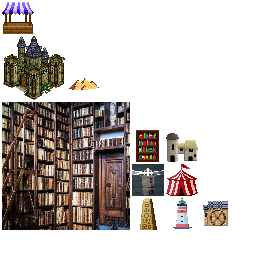
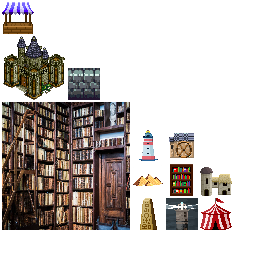
Walls: Implement walls building

Changed region(s): [[0.5, 0.5, 0.9062, 0.9062], [0.25, 0.25, 0.4062, 0.4062]]

diff --git a/core/src/main/java/me/rhin/openciv/game/city/City.java b/core/src/main/java/me/rhin/openciv/game/city/City.java
@@ -31,7 +31,6 @@ import me.rhin.openciv.listener.BuildingConstructedListener;
 import me.rhin.openciv.listener.CityStatUpdateListener;
 import me.rhin.openciv.listener.FinishProductionItemListener;
 import me.rhin.openciv.listener.NextTurnListener;
-import me.rhin.openciv.listener.RemoveProductionItemListener;
 import me.rhin.openciv.listener.RemoveSpecialistFromContainerListener;
 import me.rhin.openciv.listener.SetCitizenTileWorkerListener;
 import me.rhin.openciv.listener.SetProductionItemListener;
@@ -42,7 +41,6 @@ import me.rhin.openciv.shared.packet.type.BuildingConstructedPacket;
 import me.rhin.openciv.shared.packet.type.CityStatUpdatePacket;
 import me.rhin.openciv.shared.packet.type.FinishProductionItemPacket;
 import me.rhin.openciv.shared.packet.type.NextTurnPacket;
-import me.rhin.openciv.shared.packet.type.RemoveProductionItemPacket;
 import me.rhin.openciv.shared.packet.type.RemoveSpecialistFromContainerPacket;
 import me.rhin.openciv.shared.packet.type.SetCitizenTileWorkerPacket;
 import me.rhin.openciv.shared.packet.type.SetCitizenTileWorkerPacket.WorkerType;
@@ -70,6 +68,8 @@ public class City extends Group implements AttackableEntity, TileObserver, Speci
 	private Sprite nameIcon;
 	private Healthbar healthbar;
 	private float health;
+	private float maxHealth;
+	private int combatStrength;
 
 	public City(Tile originTile, Player playerOwner, String name) {
 		setName(name);
@@ -92,6 +92,9 @@ public class City extends Group implements AttackableEntity, TileObserver, Speci
 		// actor...
 		this.healthbar = new Healthbar(nameLabel.getX() + nameLabel.getWidth() / 2 - 50 / 2, nameIcon.getY() + 15, 50,
 				4, false);
+
+		this.maxHealth = 200; // Default
+		this.combatStrength = 5; // Default
 		this.health = getMaxHealth();
 
 		// FIXME: The actor size & position really shouldn't be confined to the label.
@@ -291,7 +294,7 @@ public class City extends Group implements AttackableEntity, TileObserver, Speci
 
 	@Override
 	public int getCombatStrength() {
-		return 5;
+		return combatStrength; // 5
 	}
 
 	@Override
@@ -310,13 +313,25 @@ public class City extends Group implements AttackableEntity, TileObserver, Speci
 	}
 
 	@Override
+	public void setMaxHealth(float maxHealth) {
+		this.maxHealth = maxHealth;
+
+		this.healthbar.setHealth(getMaxHealth(), health);
+	}
+
+	@Override
+	public void setCombatStrength(int combatStrength) {
+		this.combatStrength = combatStrength;
+	}
+
+	@Override
 	public float getHealth() {
 		return health;
 	}
 
 	@Override
 	public float getMaxHealth() {
-		return 200;
+		return maxHealth; // 200
 	}
 
 	@Override

diff --git a/server/src/main/java/me/rhin/openciv/server/game/state/InGameState.java b/server/src/main/java/me/rhin/openciv/server/game/state/InGameState.java
@@ -87,11 +87,11 @@ public class InGameState extends GameState
 	private ScheduledExecutorService executor;
 	private Runnable turnTimeRunnable;
 	private GameWonders gameWonders;
-	
+
 	public InGameState() {
-		
+
 		this.gameWonders = new GameWonders();
-		
+
 		Server.getInstance().getEventManager().addListener(DisconnectListener.class, this);
 		Server.getInstance().getEventManager().addListener(SelectUnitListener.class, this);
 		Server.getInstance().getEventManager().addListener(UnitMoveListener.class, this);
@@ -701,7 +701,8 @@ public class InGameState extends GameState
 	@Override
 	public void onWorkTile(WebSocket conn, WorkTilePacket packet) {
 
-		// TODO: !! We need to do territory & ownership &research checks like in clientside.
+		// TODO: !! We need to do territory & ownership &research checks like in
+		// clientside.
 
 		Tile tile = map.getTiles()[packet.getGridX()][packet.getGridY()];
 		for (Unit unit : tile.getUnits()) {
@@ -725,7 +726,6 @@ public class InGameState extends GameState
 	public String toString() {
 		return "InGame";
 	}
-	
 
 	@Override
 	public GameWonders getWonders() {
@@ -850,8 +850,7 @@ public class InGameState extends GameState
 
 		// Debug code
 		if (players.size() > 1) {
-			// players.get(0).setSpawnPos(players.get(1).getSpawnX() + 1,
-			// players.get(1).getSpawnY() + 1);
+			players.get(0).setSpawnPos(players.get(1).getSpawnX() + 2, players.get(1).getSpawnY() + 2);
 		}
 
 		for (Player player : players) {

diff --git a/shared/src/main/java/me/rhin/openciv/shared/packet/type/SetCityHealthPacket.java b/shared/src/main/java/me/rhin/openciv/shared/packet/type/SetCityHealthPacket.java
@@ -9,12 +9,16 @@ public class SetCityHealthPacket extends Packet {
 
 	private String cityName;
 	private float health;
+	private float maxHealth;
+	private int combatStrength;
 
 	@Override
 	public void write(Json json) {
 		super.write(json);
 		json.writeValue("cityName", cityName);
 		json.writeValue("health", health);
+		json.writeValue("maxHealth", maxHealth);
+		json.writeValue("combatStrength", combatStrength);
 	}
 
 	@Override
@@ -22,11 +26,22 @@ public class SetCityHealthPacket extends Packet {
 		super.read(json, jsonData);
 		this.cityName = jsonData.getString("cityName");
 		this.health = jsonData.getFloat("health");
+		this.maxHealth = jsonData.getFloat("maxHealth");
+		this.combatStrength = jsonData.getInt("combatStrength");
 	}
 
 	public void setCity(String cityName, float health) {
 		this.cityName = cityName;
 		this.health = health;
+		this.maxHealth = -1;
+		this.combatStrength = -1;
+	}
+
+	public void setCity(String cityName, float health, float maxHealth, int combatStrength) {
+		this.cityName = cityName;
+		this.health = health;
+		this.maxHealth = maxHealth;
+		this.combatStrength = combatStrength;
 	}
 
 	public String getCityName() {
@@ -37,4 +52,11 @@ public class SetCityHealthPacket extends Packet {
 		return health;
 	}
 
+	public float getMaxHealth() {
+		return maxHealth;
+	}
+
+	public int getCombatStrength() {
+		return combatStrength;
+	}
 }

diff --git a/core/src/main/java/me/rhin/openciv/game/production/ProducibleItemManager.java b/core/src/main/java/me/rhin/openciv/game/production/ProducibleItemManager.java
@@ -15,6 +15,7 @@ import me.rhin.openciv.game.city.building.type.GreatPyramids;
 import me.rhin.openciv.game.city.building.type.Library;
 import me.rhin.openciv.game.city.building.type.Market;
 import me.rhin.openciv.game.city.building.type.Monument;
+import me.rhin.openciv.game.city.building.type.Walls;
 import me.rhin.openciv.game.city.building.type.WaterMill;
 import me.rhin.openciv.game.notification.type.AvailableProductionNotification;
 import me.rhin.openciv.game.unit.type.Archer;
@@ -48,6 +49,7 @@ public class ProducibleItemManager {
 		this.itemQueue = new LinkedList<>();
 		this.queueEnabled = false;
 
+		// Buildings
 		possibleItems.put("Granary", new Granary(city));
 		possibleItems.put("Monument", new Monument(city));
 		possibleItems.put("Market", new Market(city));
@@ -60,9 +62,12 @@ public class ProducibleItemManager {
 		possibleItems.put("Archer", new Archer(city));
 		possibleItems.put("Library", new Library(city));
 		possibleItems.put("Water Mill", new WaterMill(city));
+		possibleItems.put("Walls", new Walls(city));
+
+		// Wonders
 		possibleItems.put("Great Pyramids", new GreatPyramids(city));
 		possibleItems.put("Great Library", new GreatLibrary(city));
-		
+
 		// FIXME: There should be a better way to do this than just checking if the
 		// player matches
 		if (city.getPlayerOwner().equals(Civilization.getInstance().getGame().getPlayer()))

diff --git a/server/src/main/java/me/rhin/openciv/server/game/city/building/type/Walls.java b/server/src/main/java/me/rhin/openciv/server/game/city/building/type/Walls.java
@@ -1,0 +1,53 @@
+package me.rhin.openciv.server.game.city.building.type;
+
+import com.badlogic.gdx.utils.Json;
+
+import me.rhin.openciv.server.Server;
+import me.rhin.openciv.server.game.Player;
+import me.rhin.openciv.server.game.city.City;
+import me.rhin.openciv.server.game.city.building.Building;
+import me.rhin.openciv.server.game.research.type.MasonryTech;
+import me.rhin.openciv.shared.packet.type.SetCityHealthPacket;
+
+public class Walls extends Building {
+
+	public Walls(City city) {
+		super(city);
+	}
+
+	@Override
+	public void create() {
+		super.create();
+
+		Json json = new Json();
+
+		SetCityHealthPacket cityHealthPacket = new SetCityHealthPacket();
+		cityHealthPacket.setCity(city.getName(), city.getHealth(), city.getMaxHealth() + 50,
+				city.getCombatStrength() + 5);
+
+		for (Player player : Server.getInstance().getPlayers()) {
+			player.getConn().send(json.toJson(cityHealthPacket));
+		}
+	}
+
+	@Override
+	public boolean meetsProductionRequirements() {
+		return city.getPlayerOwner().getResearchTree().hasResearched(MasonryTech.class);
+	}
+
+	@Override
+	public float getGoldCost() {
+		return 150;
+	}
+
+	@Override
+	public float getBuildingProductionCost() {
+		return 75;
+	}
+
+	@Override
+	public String getName() {
+		return "Walls";
+	}
+
+}

diff --git a/core/src/main/java/me/rhin/openciv/game/city/building/type/Walls.java b/core/src/main/java/me/rhin/openciv/game/city/building/type/Walls.java
@@ -1,0 +1,44 @@
+package me.rhin.openciv.game.city.building.type;
+
+import me.rhin.openciv.asset.TextureEnum;
+import me.rhin.openciv.game.city.City;
+import me.rhin.openciv.game.city.building.Building;
+import me.rhin.openciv.game.research.type.MasonryTech;
+
+public class Walls extends Building {
+
+	public Walls(City city) {
+		super(city);
+	}
+
+	@Override
+	public TextureEnum getTexture() {
+		return TextureEnum.BUILDING_WALL;
+	}
+
+	@Override
+	public boolean meetsProductionRequirements() {
+		return city.getPlayerOwner().getResearchTree().hasResearched(MasonryTech.class);
+	}
+
+	@Override
+	public String getDesc() {
+		return "Basic ancient defensive building. \n+5 City combat strength \n+50 City health";
+	}
+
+	@Override
+	public float getGoldCost() {
+		return 150;
+	}
+
+	@Override
+	public float getBuildingProductionCost() {
+		return 75;
+	}
+
+	@Override
+	public String getName() {
+		return "Walls";
+	}
+
+}

diff --git a/server/src/main/java/me/rhin/openciv/server/game/production/ProducibleItemManager.java b/server/src/main/java/me/rhin/openciv/server/game/production/ProducibleItemManager.java
@@ -16,6 +16,7 @@ import me.rhin.openciv.server.game.city.building.type.GreatPyramids;
 import me.rhin.openciv.server.game.city.building.type.Library;
 import me.rhin.openciv.server.game.city.building.type.Market;
 import me.rhin.openciv.server.game.city.building.type.Monument;
+import me.rhin.openciv.server.game.city.building.type.Walls;
 import me.rhin.openciv.server.game.city.building.type.WaterMill;
 import me.rhin.openciv.server.game.unit.type.Archer;
 import me.rhin.openciv.server.game.unit.type.Builder;
@@ -71,6 +72,8 @@ public class ProducibleItemManager implements NextTurnListener {
 		possibleItems.put("Archer", new Archer(city));
 		possibleItems.put("Library", new Library(city));
 		possibleItems.put("Water Mill", new WaterMill(city));
+		possibleItems.put("Walls", new Walls(city));
+		
 		possibleItems.put("Great Pyramids", new GreatPyramids(city));
 		possibleItems.put("Great Library", new GreatLibrary(city));
 

diff --git a/core/src/main/java/me/rhin/openciv/game/CivGame.java b/core/src/main/java/me/rhin/openciv/game/CivGame.java
@@ -285,7 +285,16 @@ public class CivGame implements PlayerConnectListener, AddUnitListener, PlayerLi
 		for (Player player : players.values()) {
 			City city = player.getCityFromName(packet.getCityName());
 			if (city != null) {
+
+				// FIXME: Should be a better way to implement this
+				if (packet.getMaxHealth() != -1 && packet.getCombatStrength() != -1) {
+					city.setCombatStrength(packet.getCombatStrength());
+					city.setMaxHealth(packet.getMaxHealth());
+				}
+
 				city.setHealth(packet.getHealth());
+
+				System.out.println(packet.getHealth() + "," + city.getHealth());
 			}
 		}
 	}

diff --git a/core/src/main/java/me/rhin/openciv/game/unit/Unit.java b/core/src/main/java/me/rhin/openciv/game/unit/Unit.java
@@ -490,8 +490,18 @@ public abstract class Unit extends Actor
 		return canAttack;
 	}
 
+	@Override
 	public float getHealth() {
 		return health;
+	}
+
+	// TODO: Implement these
+	@Override
+	public void setMaxHealth(float health) {
+	}
+
+	@Override
+	public void setCombatStrength(int combatStrength) {
 	}
 
 	public void setHealth(float health) {

diff --git a/core/src/main/java/me/rhin/openciv/game/unit/AttackableEntity.java b/core/src/main/java/me/rhin/openciv/game/unit/AttackableEntity.java
@@ -13,6 +13,10 @@ public interface AttackableEntity {
 
 	public void setHealth(float health);
 
+	public void setMaxHealth(float health);
+
+	public void setCombatStrength(int combatStrength);
+
 	public float getHealth();
 
 	public float getMaxHealth();

diff --git a/core/src/main/java/me/rhin/openciv/asset/TextureEnum.java b/core/src/main/java/me/rhin/openciv/asset/TextureEnum.java
@@ -68,6 +68,7 @@ public enum TextureEnum {
 	BUILDING_LIGHTHOUSE,
 	BUILDING_GREAT_LIGHTHOUSE,
 	BUILDING_PYRAMIDS,
+	BUILDING_WALL,
 	ICON_SCIENCE,
 	ICON_HERITAGE,
 	ICON_GOLD,
